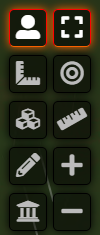
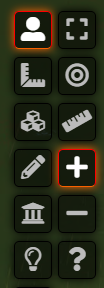
Be able to query darkness points without altering the value
#10

diff --git a/module/yzecoriolis.js b/module/yzecoriolis.js
@@ -9,7 +9,7 @@ import { bootstrapGearCompendium } from './migration.js';
 import { coriolisChatListeners } from "./coriolis-roll.js";
 import * as migrations from "./migration.js";
 import { preloadHandlerbarsTemplates } from "./templates.js";
-import { addDarknessPoints, spendDarknessPoints } from "./darkness-points.js";
+import { addDarknessPoints, spendDarknessPoints, displayDarknessPoints } from "./darkness-points.js";
 import { setupMCE } from './mce.js';
 
 Hooks.once('init', async function () {
@@ -243,6 +243,14 @@ Hooks.on('getSceneControlButtons', (controls) => {
       visible: game.user.isGM,
       onClick: () => { spendDarknessPoints(1) }
     },
+    {
+      name: "inspect",
+      title: "YZECORIOLIS.DarknessPoints",
+      icon: "fas fa-question",
+      buttons: true,
+      visible: game.user.isGM,
+      onClick: () => { displayDarknessPoints() }
+    }
   );
 
 });

diff --git a/module/darkness-points.js b/module/darkness-points.js
@@ -21,6 +21,10 @@ export async function spendDarknessPoints(points) {
     //purposefully not announcing the spending of points publically.
 }
 
+export async function displayDarknessPoints() {
+    await showDarknessPoints(getDarknessPoints());
+}
+
 async function decrementDarknessPoint() {
     for (let userID of game.users.keys()) {
         let dPoints = getDarknessPointsForUserID(userID);

diff --git a/README.md b/README.md
@@ -41,8 +41,9 @@ Weapons, Explosives, and Armor can be rolled in the items tab. You can click on 
 
 ### Handling Darkness Points
 ![Darkness Points Tools](https://github.com/winks-vtt/yze-coriolis/raw/master/images/dp_bar.png)
-- You can increment or decrement darkness points via the tool bar on the left.
-- Whenever a player pushes a roll, 1 DP is added to the DB pool of the GM
+- The GM can increment or decrement darkness points via the tool bar on the left.
+- Whenever a player pushes a roll, 1 DP is added to the DB pool of the GM.
+- The GM can peek at the current darkness points via the "?" button in the tool bar.
 
 ### Updating Character Art
 The system comes with placeholder art-work. To change it, click on the upper 3rd of the art-work to upload a new one. For reference, the placeholder artwork is 604x1488 pixels. The slot is designed for easily dropping in character art from the core rulebook.

diff --git a/CHANGELOG.md b/CHANGELOG.md
@@ -1,6 +1,9 @@
 # 0.93
 - Bug fixed with pushing rolls where darkness points would not be added to if a non-GM player pushed the roll.
 - Fixed Localization issues with item & gear sheets.
+- Added localization entries for default names of new items, talents, and injuries
+- Added localization support for the GM's darkness point messages
+- Added ability to display current Darkness points for the GM
 
 # 0.92
 - German localization added (thanks to @SesuUisu)
